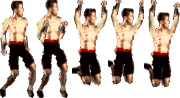
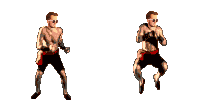
Fixed reversed player animation. Updated background.

diff --git a/src/com/ciderBrewers/core/Shared/SharedResources.java b/src/com/ciderBrewers/core/Shared/SharedResources.java
@@ -101,10 +101,10 @@ public class SharedResources {
 
         // Sprite sets
         VALIK_SET = new PlayerSet("Valik",
-                new SpriteSheet("data/spr/valik/idle.png", 36, 98),
-                new SpriteSheet("data/spr/valik/walk.png", 36, 98),
-                new SpriteSheet("data/spr/valik/walk.png", 36, 98),
-                new SpriteSheet("data/spr/valik/jump.png", 36, 98));
+                new SpriteSheet("data/spr/valik/idle.png", 100, 100),
+                new SpriteSheet("data/spr/valik/walk.png", 100, 100),
+                new SpriteSheet("data/spr/valik/walk_back.png", 100, 100),
+                new SpriteSheet("data/spr/valik/jump.png", 100, 100));
 
         MCKIDDO_SET = new PlayerSet("McKiddo",
                 new SpriteSheet("data/spr/mckiddo/idle.png", 36, 98),

diff --git a/src/com/ciderBrewers/core/Objects/Player.java b/src/com/ciderBrewers/core/Objects/Player.java
@@ -102,7 +102,9 @@ public class Player extends PhysicsObject {
             if (nextStep == 0) {
                 setSprite(animationSet.idle);
             } else {
-                if (nextStep > 0) setSprite(animationSet.walk);
+                int modifier = 1;
+                if (isReversed()) modifier = -1;
+                if (nextStep * modifier > 0) setSprite(animationSet.walk);
                 else setSprite(animationSet.walkBack);
             }
         } else setSprite(animationSet.jump);

diff --git a/src/com/ciderBrewers/core/Objects/ParallaxBackground.java b/src/com/ciderBrewers/core/Objects/ParallaxBackground.java
@@ -9,10 +9,7 @@ public class ParallaxBackground {
     private float depth;
 
     public ParallaxBackground(SpriteSheet spriteSheet, float depth) {
-        this.sprite = new Animation(spriteSheet, 10);
-
-        this.sprite.setPingPong(true);
-        this.sprite.setLooping(false);
+        this.sprite = new Animation(spriteSheet, 300);
 
         this.depth = depth;
 
